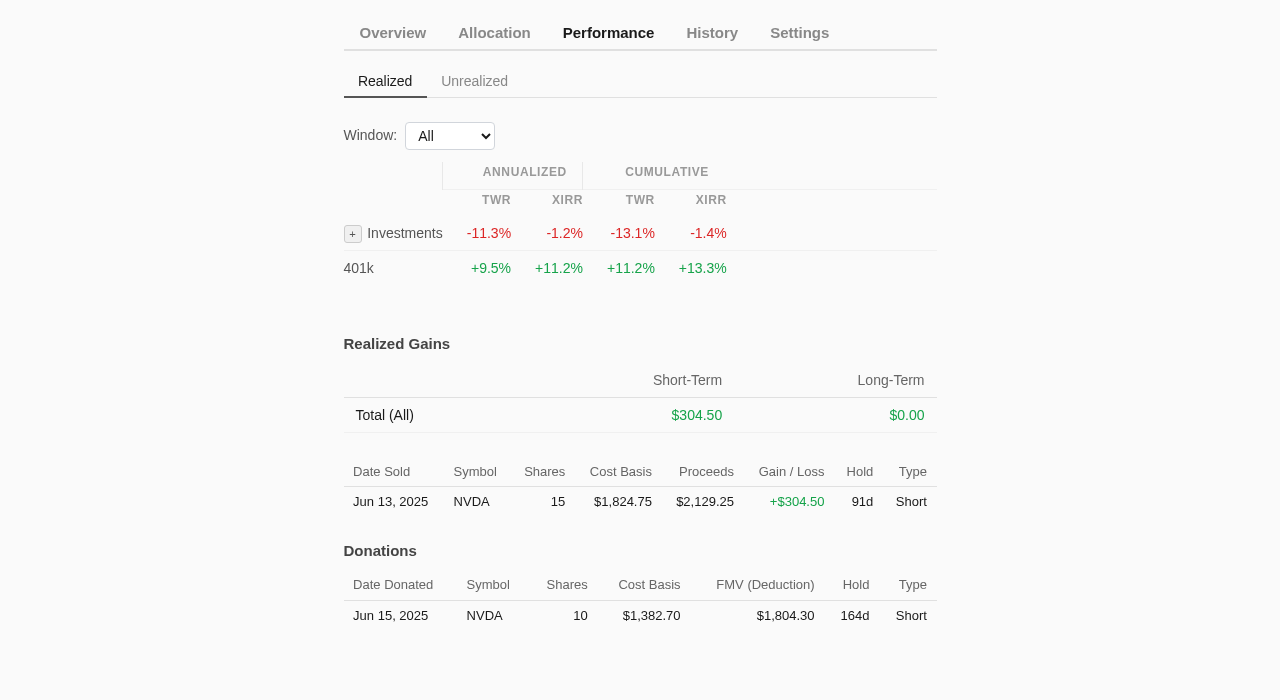
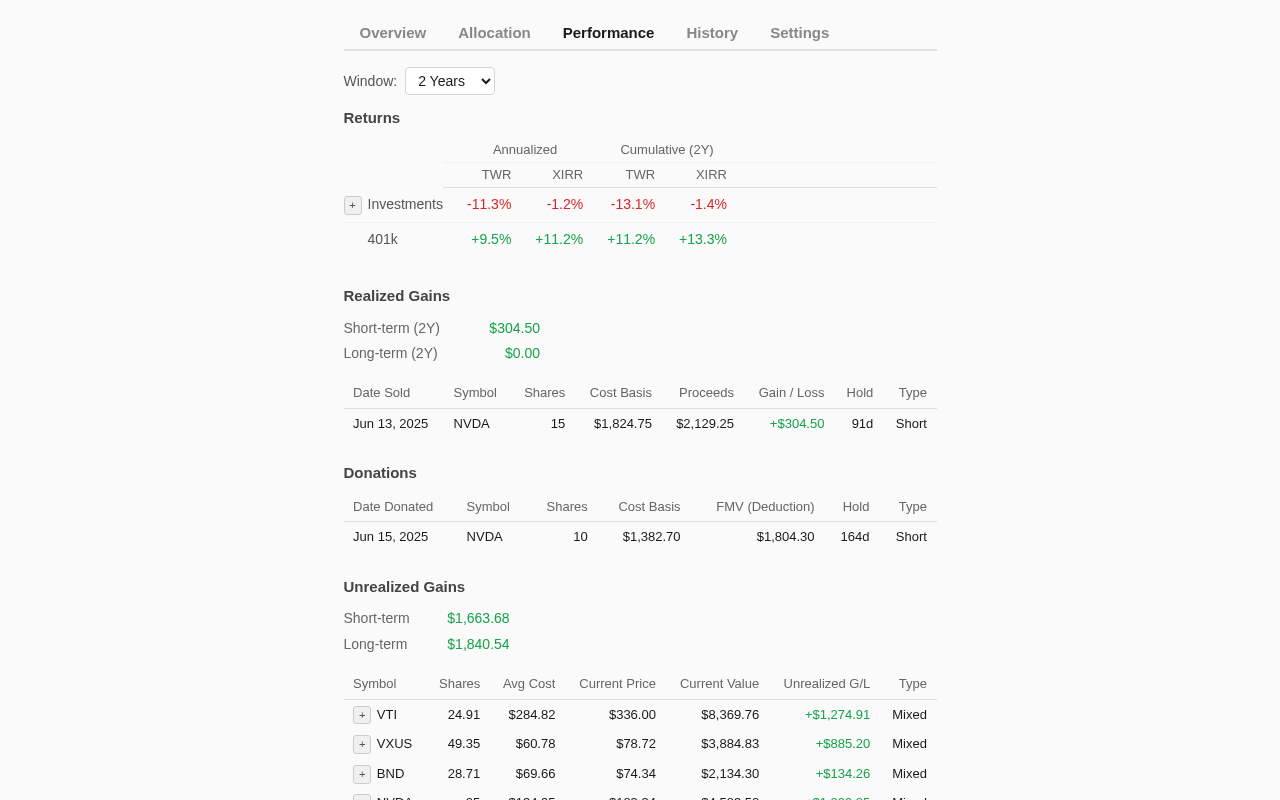
Consolidate the performance sub-tabs into one frame

diff --git a/app/js/app.js b/app/js/app.js
@@ -1104,38 +1104,7 @@ function buildGainsPanel(gainsData, data, trades, retirement, assets) {
     return td;
   }
 
-  // -- Sub-tab bar --
-  var subtabBar = document.createElement("div");
-  subtabBar.className = "tools-subtabs";
-
-  var realizedBtn = document.createElement("button");
-  realizedBtn.className = "tools-subtab active";
-  realizedBtn.textContent = "Realized";
-
-  var unrealizedBtn = document.createElement("button");
-  unrealizedBtn.className = "tools-subtab";
-  unrealizedBtn.textContent = "Unrealized";
-
-  subtabBar.appendChild(realizedBtn);
-  subtabBar.appendChild(unrealizedBtn);
-  container.appendChild(subtabBar);
-
   var realizedPanel = document.createElement("div");
-  var unrealizedPanel = document.createElement("div");
-  unrealizedPanel.className = "hidden";
-
-  realizedBtn.addEventListener("click", function () {
-    realizedBtn.classList.add("active");
-    unrealizedBtn.classList.remove("active");
-    realizedPanel.classList.remove("hidden");
-    unrealizedPanel.classList.add("hidden");
-  });
-  unrealizedBtn.addEventListener("click", function () {
-    unrealizedBtn.classList.add("active");
-    realizedBtn.classList.remove("active");
-    unrealizedPanel.classList.remove("hidden");
-    realizedPanel.classList.add("hidden");
-  });
 
   // -- Window selector header (Realized panel) --
   var wHeader = document.createElement("div");
@@ -1259,6 +1228,13 @@ function buildGainsPanel(gainsData, data, trades, retirement, assets) {
         return symbols.filter(function(s) { return active[s]; });
       }
 
+      var perfSection = document.createElement("div");
+      perfSection.className = "gains-section";
+      var perfTitle = document.createElement("h3");
+      perfTitle.className = "gains-section-title";
+      perfTitle.textContent = "Returns";
+      perfSection.appendChild(perfTitle);
+
       var metricsEl = document.createElement("div");
       metricsEl.className = "analysis-metrics wide-table-scroll";
       var mtable = document.createElement("table");
@@ -1266,6 +1242,10 @@ function buildGainsPanel(gainsData, data, trades, retirement, assets) {
 
       var mthead = document.createElement("thead");
       var mhdr1 = document.createElement("tr");
+      var mthBtn = document.createElement("th");
+      mthBtn.className = "analysis-metric-btn-col";
+      mthBtn.setAttribute("rowspan", "2");
+      mhdr1.appendChild(mthBtn);
       var mthLabel = document.createElement("th");
       mthLabel.className = "analysis-metric-label";
       mthLabel.setAttribute("rowspan", "2");
@@ -1302,16 +1282,19 @@ function buildGainsPanel(gainsData, data, trades, retirement, assets) {
         var result = computeReturns(slice, group.trades, metricsCutoff, metricsLast);
 
         var tr = document.createElement("tr");
-        var tdLabel = document.createElement("td");
-        tdLabel.className = "analysis-metric-label";
-
+        var tdBtn = document.createElement("td");
+        tdBtn.className = "analysis-metric-btn-col";
         var btn;
         if (isExpandable) {
           btn = document.createElement("button");
           btn.textContent = "+";
           btn.className = "gains-expand-btn";
-          tdLabel.appendChild(btn);
+          tdBtn.appendChild(btn);
         }
+        tr.appendChild(tdBtn);
+
+        var tdLabel = document.createElement("td");
+        tdLabel.className = "analysis-metric-label";
         tdLabel.appendChild(document.createTextNode(group.name));
         tr.appendChild(tdLabel);
         tr.appendChild(makeMetricTd(result.twr));
@@ -1332,6 +1315,9 @@ function buildGainsPanel(gainsData, data, trades, retirement, assets) {
 
             var subTr = document.createElement("tr");
             subTr.className = "analysis-metrics-sub-row hidden";
+            var subBtnTd = document.createElement("td");
+            subBtnTd.className = "analysis-metric-btn-col";
+            subTr.appendChild(subBtnTd);
             var subLabel = document.createElement("td");
             subLabel.className = "analysis-metric-label analysis-metric-sub-label";
             subLabel.textContent = sym;
@@ -1362,7 +1348,8 @@ function buildGainsPanel(gainsData, data, trades, retirement, assets) {
 
       mtable.appendChild(mtbody);
       metricsEl.appendChild(mtable);
-      realizedContent.appendChild(metricsEl);
+      perfSection.appendChild(metricsEl);
+      realizedContent.appendChild(perfSection);
     }
 
     // Compute cutoff / endDate
@@ -1405,31 +1392,22 @@ function buildGainsPanel(gainsData, data, trades, retirement, assets) {
     realizedTitle.textContent = "Realized Gains";
     realizedSection.appendChild(realizedTitle);
 
-    var summaryWrap = document.createElement("div");
-    summaryWrap.className = "gains-summary wide-table-scroll";
-    var sTable = document.createElement("table");
-    sTable.className = "gains-summary-table";
-    var sThead = document.createElement("thead");
-    var sHr = document.createElement("tr");
-    ["", "Short-Term", "Long-Term"].forEach(function (h) {
-      var th = document.createElement("th");
-      th.textContent = h;
-      if (h !== "") th.className = "gains-num";
-      sHr.appendChild(th);
+    var statTable = document.createElement("table");
+    statTable.className = "gains-stat-table";
+    var statBody = document.createElement("tbody");
+    [
+      ["Short-term (" + winLabel + ")", stFiltered],
+      ["Long-term (" + winLabel + ")", ltFiltered]
+    ].forEach(function(row) {
+      var tr = document.createElement("tr");
+      var labelTd = document.createElement("td");
+      labelTd.textContent = row[0];
+      tr.appendChild(labelTd);
+      tr.appendChild(makeCell(fmtDollar(row[1]), true, row[1]));
+      statBody.appendChild(tr);
     });
-    sThead.appendChild(sHr);
-    sTable.appendChild(sThead);
-    var sTbody = document.createElement("tbody");
-    var sRowStr = document.createElement("tr");
-    var sRowLabel = document.createElement("td");
-    sRowLabel.textContent = "Total (" + winLabel + ")";
-    sRowStr.appendChild(sRowLabel);
-    sRowStr.appendChild(makeCell(fmtDollar(stFiltered), true, stFiltered));
-    sRowStr.appendChild(makeCell(fmtDollar(ltFiltered), true, ltFiltered));
-    sTbody.appendChild(sRowStr);
-    sTable.appendChild(sTbody);
-    summaryWrap.appendChild(sTable);
-    realizedSection.appendChild(summaryWrap);
+    statTable.appendChild(statBody);
+    realizedSection.appendChild(statTable);
 
     if (filteredRealized.length === 0) {
       var emptyP = document.createElement("p");
@@ -1551,31 +1529,21 @@ function buildGainsPanel(gainsData, data, trades, retirement, assets) {
   });
 
   // -- Unrealized summary --
-  var uSummaryWrap = document.createElement("div");
-  uSummaryWrap.className = "gains-summary wide-table-scroll";
-  var uSTable = document.createElement("table");
-  uSTable.className = "gains-summary-table";
-  var uSThead = document.createElement("thead");
-  var uSHr = document.createElement("tr");
-  ["", "Short-Term", "Long-Term"].forEach(function (h) {
-    var th = document.createElement("th");
-    th.textContent = h;
-    if (h !== "") th.className = "gains-num";
-    uSHr.appendChild(th);
+  var uStatTable = document.createElement("table");
+  uStatTable.className = "gains-stat-table";
+  var uStatBody = document.createElement("tbody");
+  [
+    ["Short-term", summary.stUnrealized],
+    ["Long-term", summary.ltUnrealized]
+  ].forEach(function(row) {
+    var tr = document.createElement("tr");
+    var labelTd = document.createElement("td");
+    labelTd.textContent = row[0];
+    tr.appendChild(labelTd);
+    tr.appendChild(makeCell(fmtDollar(row[1]), true, row[1]));
+    uStatBody.appendChild(tr);
   });
-  uSThead.appendChild(uSHr);
-  uSTable.appendChild(uSThead);
-  var uSTbody = document.createElement("tbody");
-  var uSRow = document.createElement("tr");
-  var uSLabel = document.createElement("td");
-  uSLabel.textContent = "Unrealized";
-  uSRow.appendChild(uSLabel);
-  uSRow.appendChild(makeCell(fmtDollar(summary.stUnrealized), true, summary.stUnrealized));
-  uSRow.appendChild(makeCell(fmtDollar(summary.ltUnrealized), true, summary.ltUnrealized));
-  uSTbody.appendChild(uSRow);
-  uSTable.appendChild(uSTbody);
-  uSummaryWrap.appendChild(uSTable);
-  unrealizedPanel.appendChild(uSummaryWrap);
+  uStatTable.appendChild(uStatBody);
 
   // -- Unrealized gains table --
   var unrealizedSection = document.createElement("div");
@@ -1584,6 +1552,7 @@ function buildGainsPanel(gainsData, data, trades, retirement, assets) {
   unrealizedTitle.className = "gains-section-title";
   unrealizedTitle.textContent = "Unrealized Gains";
   unrealizedSection.appendChild(unrealizedTitle);
+  unrealizedSection.appendChild(uStatTable);
 
   if (unrealized.length === 0) {
     var emptyP2 = document.createElement("p");
@@ -1680,10 +1649,9 @@ function buildGainsPanel(gainsData, data, trades, retirement, assets) {
     uWrap.appendChild(uTable);
     unrealizedSection.appendChild(uWrap);
   }
-  unrealizedPanel.appendChild(unrealizedSection);
+  realizedPanel.appendChild(unrealizedSection);
 
   container.appendChild(realizedPanel);
-  container.appendChild(unrealizedPanel);
 }
 
 // ---------------------------------------------------------------------------

diff --git a/app/style.css b/app/style.css
@@ -608,6 +608,22 @@ main { line-height: 1.5; }
     border-bottom: 1px solid #f0f0f0;
 }
 
+.gains-stat-table {
+    border-collapse: collapse;
+    font-size: 0.875rem;
+    font-variant-numeric: tabular-nums;
+    margin-bottom: 0.75rem;
+}
+.gains-stat-table td {
+    padding: 0.15rem 0.75rem 0.15rem 0;
+    color: #666;
+}
+.gains-stat-table td.gains-num {
+    text-align: right;
+    padding-right: 0;
+    min-width: 5.5rem;
+}
+
 .gains-section {
     margin-bottom: 1.5rem;
 }
@@ -793,8 +809,6 @@ body:not(.loading) #loading-spinner { display: none; }
 }
 
 .analysis-metrics {
-    margin-bottom: 1.5rem;
-    padding-bottom: 1.25rem;
 }
 
 .analysis-metrics-table {
@@ -818,12 +832,10 @@ body:not(.loading) #loading-spinner { display: none; }
 }
 
 .analysis-metrics-table th {
-    padding: 0.1rem 0 0.45rem;
-    font-size: 0.75rem;
-    font-weight: 600;
-    color: #999;
-    text-transform: uppercase;
-    letter-spacing: 0.05em;
+    padding: 0.15rem 0;
+    font-size: 0.8125rem;
+    font-weight: 500;
+    color: #666;
 }
 
 .analysis-metrics-table th:not(:first-child) {
@@ -853,18 +865,25 @@ body:not(.loading) #loading-spinner { display: none; }
 /* Group-span header cells ("Annualized" / "Cumulative") */
 .analysis-metric-group-header {
     text-align: center;
-    padding-bottom: 0.2rem;
-    border-left: 1px solid #e8e8e8;
-    color: #888;
+    color: #666;
     white-space: nowrap;
-    font-size: 0.7rem;
-    font-weight: 600;
-    text-transform: uppercase;
-    letter-spacing: 0.05em;
+    font-size: 0.8125rem;
+    font-weight: 500;
 }
 
 .analysis-metrics-table th.analysis-metric-group-header {
     text-align: center;
+}
+
+.analysis-metrics-table thead tr:last-child th {
+    border-bottom: 1px solid #e0e0e0;
+}
+
+.analysis-metric-btn-col {
+    width: 1.5rem;
+    min-width: 1.5rem;
+    padding-right: 0;
+    vertical-align: middle;
 }
 
 /* Sub-rows: individual symbol lines under Investments */
@@ -878,7 +897,7 @@ body:not(.loading) #loading-spinner { display: none; }
     font-weight: 500;
 }
 .analysis-metric-sub-label {
-    padding-left: 1.5rem;
+    padding-left: 0.5rem;
     color: #777;
 }
 

diff --git a/docs/retirement.md b/docs/retirement.md
@@ -93,7 +93,7 @@ The ground truth corrected any drift accumulated over the prior year. Future int
 
 ## Return metrics
 
-The Performance tab (Realized sub-tab) computes TWR and XIRR for each retirement account. Each contribution is converted to a synthetic "buy" trade (quantity 1, price = contribution amount) and fed into these calculations. This tells the returns engine how much external capital entered the account and when.
+The Performance tab computes TWR and XIRR for each retirement account. Each contribution is converted to a synthetic "buy" trade (quantity 1, price = contribution amount) and fed into these calculations. This tells the returns engine how much external capital entered the account and when.
 
 Without contributions, the app would treat the entire account value as investment return — if your 401k is worth $50,000 but you contributed $40,000 of that, XIRR needs to know about the $40,000 to report the correct 25% return instead of treating it as infinite return on zero investment.
 
@@ -103,7 +103,7 @@ Once interpolated, retirement account values are treated like any other symbol:
 
 - **Overview tab**: included in the stacked area chart. Order controlled by `symbolOrder` in `config.json` (retirement accounts are typically placed at the bottom of the stack).
 - **Allocation tab**: included in exposure calculations via fractional allocations (see [Exposure Tracking](exposure.md)). A 401k in a target-date fund can be split across Domestic, International, and Bond categories.
-- **Performance tab (Realized sub-tab)**: TWR and XIRR return metrics are computed here — contributions are the cash flows (see [Return metrics](#return-metrics)).
+- **Performance tab**: TWR and XIRR return metrics are computed here — contributions are the cash flows (see [Return metrics](#return-metrics)).
 - **History tab**: three sub-tabs:
   - **Balances**: shows the interpolated daily value. Ground-truth cells are editable — double-click to update (long-press on mobile).
   - **Retirement Contributions**: browser editor for the contributions array. Select an account from the dropdown to view and edit its entries; add, delete, and save rows without touching the JSON file.
